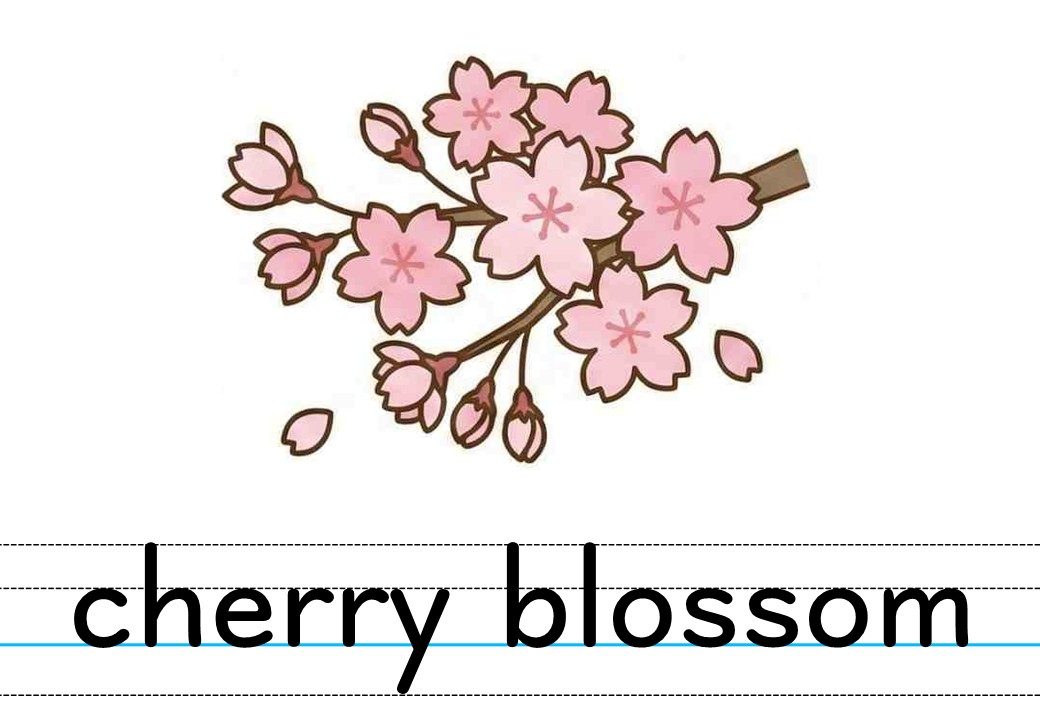
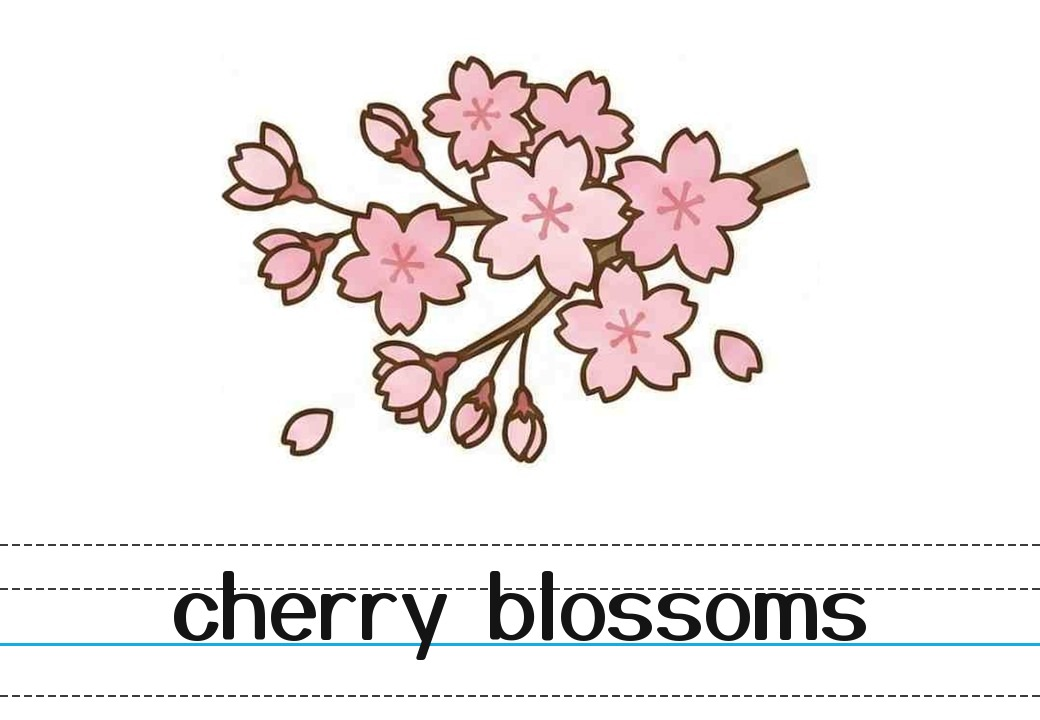
画像・単語の整合性監査にもとづく修正(参照切れ2件+誤ラベル12枚)
コード修正:
- 6年「時刻」の at 5:00 / at 10:30 のエイリアスを実ファイル名に一致させ、
  画像が表示されない問題を修正(at_5_00 → at 5_00 等)
- 学ぶ/練習/ゲーム タブの存在しない画像参照(mode_study/practice/game.jpg)を
  除去(画像を追加したら戻せるようコメントを記載)
- images/desktop.ini(Windows管理ファイル)を削除

画像修正(ラベル文字の誤り等):
- seater.jpg → sweater.jpg にリネームし、画像内の誤記「seater」を修正
- watch_item.jpg: ラベル「watch_item」→「watch」
- playing the recorder.jpg: 「play the recorder」→「playing the recorder」
- playing video games.jpg: 「play video game」→「playing video games」
- one hundred and one.jpg: 「one hundred one」→「one hundred and one」
- cherry blossoms.jpg: 単数形「cherry blossom」→「cherry blossoms」
- the_UK.jpg / the_US.jpg: 「the_UK」「the_US」→「the U.K.」「the U.S.」
- wash.jpg / washed.jpg: 単語と無関係な絵(毛布にくるまる子ども)だったため、
  皿洗いのイラストにラベル wash / washed を付けて差し替え
- nine.jpg / nineteen.jpg: q に見える 9 の字形を判読しやすい字形に描き直し

Claude-Session: https://claude.ai/code/session_01XdiW5Z3ppxUcUrCRWzTXFE

Changed region(s): [[0.0, 0.7333, 1.0, 0.9778]]

diff --git a/index.html b/index.html
@@ -488,9 +488,10 @@
     <div id="home-view" class="hidden fade-in">
         <h2 id="grade-title" style="text-align:center; color:var(--primary); margin-top:0; font-family:'Fredoka One', cursive; margin-bottom:20px;">Grade</h2>
         <div class="mode-tabs">
-            <button id="t-study" class="tab-btn active" onclick="switchMode('study')"><img src="images/mode_study.jpg" onerror="this.style.display='none'"><div>Study<small>学ぶ</small></div></button>
-            <button id="t-practice" class="tab-btn" onclick="switchMode('quiz')"><img src="images/mode_practice.jpg" onerror="this.style.display='none'"><div>Practice<small>練習</small></div></button>
-            <button id="t-game" class="tab-btn" onclick="switchMode('game')"><img src="images/mode_game.jpg" onerror="this.style.display='none'"><div>Game<small>ゲーム</small></div></button>
+            <!-- タブ用アイコン画像(mode_study/practice/game.jpg)は現在リポジトリに存在しないため参照を外しています。画像を追加したら <img src="images/mode_study.jpg"> 等を戻してください -->
+            <button id="t-study" class="tab-btn active" onclick="switchMode('study')"><div>Study<small>学ぶ</small></div></button>
+            <button id="t-practice" class="tab-btn" onclick="switchMode('quiz')"><div>Practice<small>練習</small></div></button>
+            <button id="t-game" class="tab-btn" onclick="switchMode('game')"><div>Game<small>ゲーム</small></div></button>
         </div>
         <p id="mode-desc" style="text-align:center; color:#888; font-weight:bold; margin:0 0 15px;">カテゴリーを選んで学ぼう！</p>
         <div id="game-random-area" class="hidden">
@@ -742,7 +743,7 @@
     const grade3Data = { "g3_u01": { "label_jp": "あいさつ", "label_en": "Greetings", "icon": "g3_unit1.jpg", "group": "grp-1", "items": ["Hello", "Hi", "Good morning", "Good afternoon", "Good evening", "Goodbye", "See you", "I am", "name"] }, "g3_u02": { "label_jp": "気持ち", "label_en": "Feelings", "icon": "g3_unit2.jpg", "group": "grp-2", "items": ["happy", "good", "fine", "hungry", "sleepy", "tired", "sad", "thank you", "great"] }, "g3_u03": { "label_jp": "数・ジャンケン", "label_en": "Numbers", "icon": "g3_unit3.jpg", "group": "grp-3", "items": ["one", "two", "three", "four", "five", "six", "seven", "eight", "nine", "ten", "eleven", "twelve", "thirteen", "fourteen", "fifteen", "sixteen", "seventeen", "eighteen", "nineteen", "twenty", "rock", "scissors=scissors_janken", "paper"] }, "g3_u04": { "label_jp": "色", "label_en": "Colors", "icon": "g3_unit4.jpg", "group": "grp-4", "items": ["blue", "red", "green", "yellow", "pink", "orange=orange_color", "purple", "white", "black", "brown", "gold", "silver", "rainbow"] }, "g3_u05": { "label_jp": "食べ物・スポーツ", "label_en": "Food & Sports", "icon": "g3_unit5.jpg", "group": "grp-5", "items": ["soccer", "baseball", "basketball", "dodgeball", "swimming", "tennis", "apple", "orange=orange_fruit", "banana", "grape", "melon", "peach", "strawberry", "kiwi fruit", "ice cream", "steak", "sushi", "curry and rice", "hamburger", "pizza", "cake", "donut", "water", "sandwich", "chocolate"] }, "g3_u06": { "label_jp": "アルファベット(大文字)", "label_en": "Alphabet (ABC)", "icon": "g3_unit6.jpg", "group": "grp-1", "items": ["A=a_capital", "B=b_capital", "C=c_capital", "D=d_capital", "E=e_capital", "F=f_capital", "G=g_capital", "H=h_capital", "I=i_capital", "J=j_capital", "K=k_capital", "L=l_capital", "M=m_capital", "N=n_capital", "O=o_capital", "P=p_capital", "Q=q_capital", "R=r_capital", "S=s_capital", "T=t_capital", "U=u_capital", "V=v_capital", "W=w_capital", "X=x_capital", "Y=y_capital", "Z=z_capital"] }, "g3_u07": { "label_jp": "形・プレゼント", "label_en": "Shapes & Presents", "icon": "g3_unit7.jpg", "group": "grp-2", "items": ["circle", "triangle", "square", "rectangle", "star", "heart", "diamond", "card", "present"] }, "g3_u08": { "label_jp": "動物・体", "label_en": "Animals & Body", "icon": "g3_unit8.jpg", "group": "grp-3", "items": ["dog", "cat", "elephant", "lion", "rabbit", "panda", "monkey", "koala", "snake", "cow", "pig", "tiger", "bear", "mouse", "bird", "horse", "big", "small", "long", "short", "ear", "eye", "nose", "mouth", "tail", "leg", "body", "gorilla", "fox"] }, "g3_u09": { "label_jp": "物語", "label_en": "Story Characters", "icon": "g3_unit9.jpg", "group": "grp-4", "items": ["Momotaro", "dog", "monkey", "pheasant", "demon", "princess", "prince"] } };
     const grade4Data = { "g4_u01": { "label_jp": "世界の国・あいさつ", "label_en": "Countries & Greetings", "icon": "g4_unit1.jpg", "group": "grp-1", "items": ["Japan", "America", "Australia", "Brazil", "China", "Korea", "Russia", "India", "France", "Hello", "Konnichiwa", "Nihao", "Bonjour", "Namaste", "Sawasdee"] }, "g4_u02": { "label_jp": "天気・遊び", "label_en": "Weather & Play", "icon": "g4_unit2.jpg", "group": "grp-2", "items": ["sunny", "cloudy", "rainy", "snowy", "play tag", "play cards", "play dodgeball", "jump rope", "windy"] }, "g4_u03": { "label_jp": "曜日", "label_en": "Days of the Week", "icon": "g4_unit3.jpg", "group": "grp-3", "items": ["Sunday", "Monday", "Tuesday", "Wednesday", "Thursday", "Friday", "Saturday", "school", "fun", "study", "one", "two", "three", "four", "five", "six", "seven", "eight", "nine", "ten", "eleven", "twelve"] }, "g4_u04": { "label_jp": "時間", "label_en": "Time", "icon": "g4_unit4.jpg", "group": "grp-4", "items": ["one o'clock", "two o'clock", "three o'clock", "four o'clock", "five o'clock", "six o'clock", "seven o'clock", "eight o'clock", "nine o'clock", "ten o'clock", "eleven o'clock", "twelve o'clock", "AM", "PM", "breakfast time", "lunch time", "snack time", "dinner time", "bath time", "bed time", "wake up time"] }, "g4_u05": { "label_jp": "文房具", "label_en": "Stationery", "icon": "g4_unit5.jpg", "group": "grp-5", "items": ["pen", "pencil", "red pencil", "eraser", "ruler", "pencil case", "magnet", "marker", "notebook", "staples", "glue", "scissors", "crayon", "tape"] }, "g4_u06": { "label_jp": "アルファベット(小文字)", "label_en": "Alphabet (abc)", "icon": "g4_unit6.jpg", "group": "grp-1", "items": ["a=a_small", "b=b_small", "c=c_small", "d=d_small", "e=e_small", "f=f_small", "g=g_small", "h=h_small", "i=i_small", "j=j_small", "k=k_small", "l=l_small", "m=m_small", "n=n_small", "o=o_small", "p=p_small", "q=q_small", "r=r_small", "s=s_small", "t=t_small", "u=u_small", "v=v_small", "w=w_small", "x=x_small", "y=y_small", "z=z_small"] }, "g4_u07": { "label_jp": "ほしいもの", "label_en": "Vegetables & Food", "icon": "g4_unit7.jpg", "group": "grp-2", "items": ["potato", "tomato", "onion", "carrot", "green pepper", "corn", "mushroom", "ham", "sausage", "cheese", "tuna", "bacon", "pineapple", "cherry"] }, "g4_u08": { "label_jp": "学校・道案内", "label_en": "School & Directions", "icon": "g4_unit8.jpg", "group": "grp-3", "items": ["classroom", "library", "music room", "gym", "arts and crafts room", "science room", "computer room", "teachers' office", "school nurse's office", "school principal's office", "restroom", "entrance", "Go straight=go straight", "Turn right=turn right", "Turn left=turn left", "Stop=stop", "playground"] }, "g4_u09": { "label_jp": "一日の生活", "label_en": "My Day", "icon": "g4_unit9.jpg", "group": "grp-4", "items": ["get up", "wash my face", "eat breakfast", "go to school", "study", "eat lunch", "go home", "eat dinner", "take a bath", "go to bed", "every day"] } };
     const grade5Data = { c01: { label_jp: "今の気持ち", label_en: "Feelings", icon: "cat_feelings.jpg", group: "grp-1", items: ["fine", "happy", "good", "great", "sleepy", "tired", "hungry", "thirsty", "sad", "angry", "excited", "nervous", "busy", "scared"] }, c18: { label_jp: "自分の性格", label_en: "Personality", icon: "cat_personality.jpg", group: "grp-1", items: ["active", "brave", "cool=cool_nice", "famous", "friendly", "kind", "strong", "cheerful", "funny", "smart", "shy"] }, c14: { label_jp: "好きな教科", label_en: "Subject", icon: "cat_subject.jpg", group: "grp-4", items: ["Japanese", "English", "math", "science", "social studies", "music", "P.E.=PE", "calligraphy", "arts and crafts", "home economics", "moral education", "the period for integrated study=integrated_study"] }, c15: { label_jp: "得意なこと・動作", label_en: "Abilities / Actions", icon: "cat_actions.jpg", group: "grp-5", items: ["sing well", "cook", "swim", "run fast", "dance", "jump rope", "do kendama", "play soccer", "play basketball", "play baseball", "play volleyball", "play table tennis", "play dodgeball", "play badminton", "play the piano", "play the recorder", "play the guitar", "draw pictures", "ride a unicycle"] }, c17: { label_jp: "将来の仕事", label_en: "Job", icon: "cat_job.jpg", group: "grp-4", items: ["actor", "comedian", "singer", "artist", "athlete", "baseball player", "tennis player", "figure skater", "chef", "baker", "farmer", "florist", "teacher", "journalist", "designer", "robot creator", "vet", "dentist", "nurse", "doctor", "astronaut", "firefighter", "zookeeper", "YouTuber", "game creator"] }, c13: { label_jp: "一週間の曜日", label_en: "Days", icon: "cat_days.jpg", group: "grp-1", items: ["Sunday", "Monday", "Tuesday", "Wednesday", "Thursday", "Friday", "Saturday"] }, c11: { label_jp: "一年間の月", label_en: "Months", icon: "cat_months.jpg", group: "grp-1", items: ["January", "February", "March", "April", "May", "June", "July", "August", "September", "October", "November", "December"] }, c25: { label_jp: "数字（0〜100）", label_en: "Number", icon: "cat_numbers.jpg", group: "grp-5", items: ["zero", "one", "two", "three", "four", "five", "six", "seven", "eight", "nine", "ten", "eleven", "twelve", "thirteen", "fourteen", "fifteen", "sixteen", "seventeen", "eighteen", "nineteen", "twenty", "thirty", "forty", "fifty", "sixty", "seventy", "eighty", "ninety", "one hundred"] }, c12: { label_jp: "持ち物・学用品", label_en: "Personal Items", icon: "cat_items.jpg", group: "grp-4", items: ["pen", "pencil", "eraser", "pencil case", "computer", "tablet", "glue", "ruler", "scissors", "notebook", "card", "cup", "clock", "watch=watch_item", "ball", "racket", "bed", "desk", "chair", "cap", "hat", "shoes", "pants", "glasses", "bag", "T-shirt", "sweater", "smartphone", "calendar", "balloon", "P.E.=PE"] }, c03: { label_jp: "いろいろな色と形", label_en: "Color, Shape", icon: "cat_color.jpg", group: "grp-5", items: ["red", "blue", "green", "yellow", "pink", "white", "orange=orange_color", "purple", "black", "brown", "gray", "circle", "triangle", "cross", "heart", "square", "rectangle", "star", "diamond"] }, c04: { label_jp: "スポーツの種類", label_en: "Sport", icon: "cat_sport.jpg", group: "grp-5", items: ["baseball", "basketball", "dodgeball", "volleyball", "soccer", "swimming", "table tennis", "tennis", "badminton", "dancing", "skiing"] }, c05: { label_jp: "動物の名前", label_en: "Animal", icon: "cat_animal.jpg", group: "grp-2", items: ["cat", "dog", "rabbit", "hamster", "tiger", "bear", "horse"] }, c06: { label_jp: "野菜と果物", label_en: "Fruit, Vegetable", icon: "cat_fruit.jpg", group: "grp-3", items: ["apple", "banana", "strawberry", "grapes", "peach", "melon", "pineapple", "persimmon", "watermelon", "Japanese pear", "potato", "carrot", "onion", "cabbage", "tomato", "mushroom", "green pepper", "cucumber", "corn", "spinach", "eggplant", "orange=orange_fruit"] }, c08: { label_jp: "いろいろな料理", label_en: "Food", icon: "cat_food.jpg", group: "grp-3", items: ["pizza", "steak", "hamburger", "spaghetti", "sandwich", "French fries", "omelet", "rice", "rice ball", "curry and rice", "rice cake", "fried rice", "fried chicken", "grilled fish", "miso soup", "noodles", "soup", "salad", "bread", "sausage", "ramen", "hot pot"] }, c07: { label_jp: "料理の材料", label_en: "Ingredients", icon: "cat_ingredients.jpg", group: "grp-3", items: ["beef", "pork", "chicken", "egg", "octopus", "crab", "squid", "seaweed", "cheese", "bacon", "shrimp", "salmon"] }, c09: { label_jp: "飲み物とデザート", label_en: "Drink, Dessert", icon: "cat_drink.jpg", group: "grp-3", items: ["milk", "orange juice", "soda", "tea", "green tea", "coffee", "water", "cake", "ice cream", "pudding", "yogurt"] }, c10: { label_jp: "食べ物の味", label_en: "Taste, Texture", icon: "cat_taste.jpg", group: "grp-3", items: ["delicious", "sweet", "bitter", "sour", "salty", "spicy", "soft", "hard"] }, c19: { label_jp: "町の施設", label_en: "Town", icon: "cat_town.jpg", group: "grp-4", items: ["house", "school", "bookstore", "station", "library", "post office", "fire station", "police station", "hospital", "city hall", "restaurant", "flower shop", "supermarket", "bus stop", "park", "stadium", "gym", "zoo", "aquarium", "museum", "temple", "shrine", "castle", "garden", "convenience store", "amusement park"] }, c21: { label_jp: "道案内と場所", label_en: "Directions", icon: "cat_directions.jpg", group: "grp-5", items: ["on", "in", "under", "by", "go straight", "turn right", "turn left", "stop", "corner", "block"] }, c02: { label_jp: "今日の天気", label_en: "Weather", icon: "cat_weather.jpg", group: "grp-2", items: ["sunny", "rainy", "cloudy", "snowy", "hot", "cold", "warm", "cool=cool_weather"] }, c20: { label_jp: "身近な自然", label_en: "Nature", icon: "cat_nature.jpg", group: "grp-2", items: ["sea", "beach", "river", "mountain", "lake", "pond", "forest", "island", "waterfall", "tree", "flower", "cherry blossoms", "sun", "sunrise", "sunset", "rainbow", "stars", "hot spring", "autumn leaves"] }, c16: { label_jp: "家族や友達", label_en: "People", icon: "cat_people.jpg", group: "grp-4", items: ["grandmother", "grandfather", "mother", "father", "brother", "sister", "me", "friend", "neighbor"] }, c23: { label_jp: "物の様子", label_en: "State", icon: "cat_state.jpg", group: "grp-1", items: ["big", "small", "old", "new", "long", "short", "cool=cool_nice", "beautiful", "cute", "popular", "fresh"] }, c24: { label_jp: "感じたこと", label_en: "Impressions", icon: "cat_impressions.jpg", group: "grp-1", items: ["nice", "good", "great", "wonderful", "fun", "exciting", "interesting"] } };
-    const grade6Data = { g01: { label_jp: "世界の国々", label_en: "Country", icon: "cat_country.jpg", group: "grp-5", items: ["Australia", "Azerbaijan", "Brazil", "Canada", "Chile", "China", "Egypt", "Finland", "France", "Germany", "India", "Italy", "Japan", "Kenya", "Korea", "New Zealand", "Norway", "Peru", "Russia", "Saudi Arabia", "South Africa", "Thailand", "the Maldives", "the Philippines", "the U.K.=the_UK", "the U.S.=the_US"] }, g13: { label_jp: "中学校の部活動", label_en: "Club Activity", icon: "cat_club.jpg", group: "grp-4", items: ["baseball team", "basketball team", "volleyball team", "soccer team", "tennis team", "track team", "art club", "computer club", "drama club", "dance club", "kendo club", "newspaper club", "science club", "brass band", "chorus", "table tennis team"] }, g14: { label_jp: "中学校の教科", label_en: "Subject", icon: "cat_subject.jpg", group: "grp-4", items: ["Japanese", "English", "math", "science", "social studies", "music", "P.E.=PE", "calligraphy", "arts and crafts", "home economics", "moral education"] }, g15: { label_jp: "あこがれの職業", label_en: "Job", icon: "cat_job.jpg", group: "grp-4", items: ["actor", "voice actor", "artist", "manga artist", "baseball player", "soccer player", "teacher", "nursery teacher", "journalist", "chef", "farmer", "florist", "hair stylist", "designer", "robot creator", "pharmacist", "vet", "dentist", "nurse", "doctor", "astronaut", "firefighter", "zookeeper"] }, g16: { label_jp: "学校の行事", label_en: "School Events", icon: "cat_school_events.jpg", group: "grp-1", items: ["entrance ceremony", "art festival", "drama festival", "music festival", "sports day", "volunteer day", "camping trip", "field trip", "school trip", "swimming meet", "graduation ceremony"] }, g05: { label_jp: "季節のイベント", label_en: "Seasonal Events", icon: "cat_events.jpg", group: "grp-1", items: ["hanami", "the Doll Festival", "Children's Day", "the Star Festival", "a summer festival", "a fireworks festival", "tsukimi", "momijigari", "shichi-go-san", "oshogatsu", "setsubun", "a snow festival", "Japanese food", "Japanese sweets", "matcha", "hot spring"] }, g08: { label_jp: "毎日の生活習慣", label_en: "Daily Routine", icon: "cat_routine.jpg", group: "grp-3", items: ["get up", "eat breakfast", "brush my teeth", "take out the garbage", "leave my house", "go to school", "eat lunch", "go home", "clean my room", "do my homework", "play with my friends", "watch TV", "walk the dog", "cook dinner", "set the table", "eat dinner", "clear the table", "wash the dishes", "clean the bath", "take a bath", "go to bed"] }, g07: { label_jp: "時間の表現と頻度", label_en: "Time, Frequency", icon: "cat_frequency.jpg", group: "grp-3", items: ["morning", "afternoon", "evening", "night", "Sunday", "Monday", "Tuesday", "Wednesday", "Thursday", "Friday", "Saturday", "at 5:00=at_5_00", "at 10:30=at_10_30", "always", "usually", "sometimes", "never"] }, g06: { label_jp: "過去の動作", label_en: "Actions (Past)", icon: "cat_past.jpg", group: "grp-5", items: ["see", "saw", "eat", "ate", "go", "went", "enjoy", "enjoyed", "visit", "visited", "make", "made", "talk", "talked", "sing", "sang", "cook", "cooked", "watch=watch_action", "watched", "play", "played", "practice", "practiced", "try", "tried", "wash", "washed", "walk", "walked"] }, g06b: { label_jp: "いろいろな動作", label_en: "Actions (Verbs)", icon: "cat_actions_g6.jpg", group: "grp-5", items: ["like", "love", "have", "want", "buy", "clean", "climb", "dance", "draw", "drink", "fly", "help", "jump", "listen", "read", "run", "stand up", "sit down", "speak", "study", "swim", "walk", "write"] }, g02: { label_jp: "得意なこと", label_en: "Things you are good at", icon: "cat_skills.jpg", group: "grp-1", items: ["singing", "cooking", "swimming", "running", "dancing", "fishing", "sports", "kendama", "sewing", "jumping rope", "riding a unicycle", "drawing pictures", "making sweets", "playing the piano", "playing the recorder", "playing video games"] }, g11: { label_jp: "いろいろな生き物", label_en: "Living Things", icon: "cat_living.jpg", group: "grp-2", items: ["bear", "cat", "chimpanzee", "cow", "dog", "elephant", "giraffe", "gorilla", "hamster", "hippo", "horse", "kangaroo", "koala", "lion", "monkey", "mouse", "orangutan", "panda", "pig", "polar bear", "rabbit", "red panda", "tiger", "zebra", "bird", "eagle", "owl", "penguin", "caterpillar", "grasshopper", "frog", "dolphin", "dugong", "fish", "jellyfish", "sea turtle", "seal", "shark", "whale"] }, g10: { label_jp: "世界の自然環境", label_en: "Nature", icon: "cat_nature_g6.jpg", group: "grp-2", items: ["sea", "beach", "mountain", "forest", "rain forest", "desert", "savanna", "lake", "pond", "river", "waterfall", "hot spring", "sky", "sun", "stars", "tree", "nuts", "leaves", "grass", "flower", "fruits", "bugs", "seaweed", "water"] }, g12: { label_jp: "体と特徴", label_en: "Body", icon: "cat_body.jpg", group: "grp-4", items: ["head", "neck", "shoulder", "hand", "leg", "eye", "nose", "mouth", "ear", "tail", "fur", "wing", "feather", "shell", "horn"] }, g09: { label_jp: "町にある建物", label_en: "Town", icon: "cat_town_g6.jpg", group: "grp-4", items: ["house", "school", "bookstore", "station", "library", "hospital", "fire station", "police station", "supermarket", "flower shop", "shrine", "temple", "restaurant", "park", "stadium", "gym", "zoo", "aquarium", "museum", "castle", "junior high school", "swimming pool", "department store", "amusement park"] }, g03: { label_jp: "四季の季節", label_en: "Season", icon: "cat_season.jpg", group: "grp-2", items: ["spring", "summer", "fall", "winter"] }, g04: { label_jp: "月（1月〜12月）", label_en: "Month, Date", icon: "cat_months.jpg", group: "grp-1", items: ["January", "February", "March", "April", "May", "June", "July", "August", "September", "October", "November", "December"] }, g19: { label_jp: "大きな数字", label_en: "Number", icon: "cat_numbers.jpg", group: "grp-5", items: ["zero", "one", "two", "twenty", "twenty-one", "thirty", "forty", "fifty", "sixty", "seventy", "eighty", "ninety", "one hundred", "one hundred and one", "two hundred"] }, g17: { label_jp: "様子を表す言葉", label_en: "State", icon: "cat_state.jpg", group: "grp-1", items: ["big", "small", "old", "new", "long", "short", "cool=cool_nice", "beautiful", "cute", "popular", "fresh"] }, g18: { label_jp: "思い出の感想", label_en: "Impressions", icon: "cat_impressions.jpg", group: "grp-1", items: ["nice", "good", "great", "wonderful", "fun", "exciting", "interesting"] } };
+    const grade6Data = { g01: { label_jp: "世界の国々", label_en: "Country", icon: "cat_country.jpg", group: "grp-5", items: ["Australia", "Azerbaijan", "Brazil", "Canada", "Chile", "China", "Egypt", "Finland", "France", "Germany", "India", "Italy", "Japan", "Kenya", "Korea", "New Zealand", "Norway", "Peru", "Russia", "Saudi Arabia", "South Africa", "Thailand", "the Maldives", "the Philippines", "the U.K.=the_UK", "the U.S.=the_US"] }, g13: { label_jp: "中学校の部活動", label_en: "Club Activity", icon: "cat_club.jpg", group: "grp-4", items: ["baseball team", "basketball team", "volleyball team", "soccer team", "tennis team", "track team", "art club", "computer club", "drama club", "dance club", "kendo club", "newspaper club", "science club", "brass band", "chorus", "table tennis team"] }, g14: { label_jp: "中学校の教科", label_en: "Subject", icon: "cat_subject.jpg", group: "grp-4", items: ["Japanese", "English", "math", "science", "social studies", "music", "P.E.=PE", "calligraphy", "arts and crafts", "home economics", "moral education"] }, g15: { label_jp: "あこがれの職業", label_en: "Job", icon: "cat_job.jpg", group: "grp-4", items: ["actor", "voice actor", "artist", "manga artist", "baseball player", "soccer player", "teacher", "nursery teacher", "journalist", "chef", "farmer", "florist", "hair stylist", "designer", "robot creator", "pharmacist", "vet", "dentist", "nurse", "doctor", "astronaut", "firefighter", "zookeeper"] }, g16: { label_jp: "学校の行事", label_en: "School Events", icon: "cat_school_events.jpg", group: "grp-1", items: ["entrance ceremony", "art festival", "drama festival", "music festival", "sports day", "volunteer day", "camping trip", "field trip", "school trip", "swimming meet", "graduation ceremony"] }, g05: { label_jp: "季節のイベント", label_en: "Seasonal Events", icon: "cat_events.jpg", group: "grp-1", items: ["hanami", "the Doll Festival", "Children's Day", "the Star Festival", "a summer festival", "a fireworks festival", "tsukimi", "momijigari", "shichi-go-san", "oshogatsu", "setsubun", "a snow festival", "Japanese food", "Japanese sweets", "matcha", "hot spring"] }, g08: { label_jp: "毎日の生活習慣", label_en: "Daily Routine", icon: "cat_routine.jpg", group: "grp-3", items: ["get up", "eat breakfast", "brush my teeth", "take out the garbage", "leave my house", "go to school", "eat lunch", "go home", "clean my room", "do my homework", "play with my friends", "watch TV", "walk the dog", "cook dinner", "set the table", "eat dinner", "clear the table", "wash the dishes", "clean the bath", "take a bath", "go to bed"] }, g07: { label_jp: "時間の表現と頻度", label_en: "Time, Frequency", icon: "cat_frequency.jpg", group: "grp-3", items: ["morning", "afternoon", "evening", "night", "Sunday", "Monday", "Tuesday", "Wednesday", "Thursday", "Friday", "Saturday", "at 5:00=at 5_00", "at 10:30=at 10_30", "always", "usually", "sometimes", "never"] }, g06: { label_jp: "過去の動作", label_en: "Actions (Past)", icon: "cat_past.jpg", group: "grp-5", items: ["see", "saw", "eat", "ate", "go", "went", "enjoy", "enjoyed", "visit", "visited", "make", "made", "talk", "talked", "sing", "sang", "cook", "cooked", "watch=watch_action", "watched", "play", "played", "practice", "practiced", "try", "tried", "wash", "washed", "walk", "walked"] }, g06b: { label_jp: "いろいろな動作", label_en: "Actions (Verbs)", icon: "cat_actions_g6.jpg", group: "grp-5", items: ["like", "love", "have", "want", "buy", "clean", "climb", "dance", "draw", "drink", "fly", "help", "jump", "listen", "read", "run", "stand up", "sit down", "speak", "study", "swim", "walk", "write"] }, g02: { label_jp: "得意なこと", label_en: "Things you are good at", icon: "cat_skills.jpg", group: "grp-1", items: ["singing", "cooking", "swimming", "running", "dancing", "fishing", "sports", "kendama", "sewing", "jumping rope", "riding a unicycle", "drawing pictures", "making sweets", "playing the piano", "playing the recorder", "playing video games"] }, g11: { label_jp: "いろいろな生き物", label_en: "Living Things", icon: "cat_living.jpg", group: "grp-2", items: ["bear", "cat", "chimpanzee", "cow", "dog", "elephant", "giraffe", "gorilla", "hamster", "hippo", "horse", "kangaroo", "koala", "lion", "monkey", "mouse", "orangutan", "panda", "pig", "polar bear", "rabbit", "red panda", "tiger", "zebra", "bird", "eagle", "owl", "penguin", "caterpillar", "grasshopper", "frog", "dolphin", "dugong", "fish", "jellyfish", "sea turtle", "seal", "shark", "whale"] }, g10: { label_jp: "世界の自然環境", label_en: "Nature", icon: "cat_nature_g6.jpg", group: "grp-2", items: ["sea", "beach", "mountain", "forest", "rain forest", "desert", "savanna", "lake", "pond", "river", "waterfall", "hot spring", "sky", "sun", "stars", "tree", "nuts", "leaves", "grass", "flower", "fruits", "bugs", "seaweed", "water"] }, g12: { label_jp: "体と特徴", label_en: "Body", icon: "cat_body.jpg", group: "grp-4", items: ["head", "neck", "shoulder", "hand", "leg", "eye", "nose", "mouth", "ear", "tail", "fur", "wing", "feather", "shell", "horn"] }, g09: { label_jp: "町にある建物", label_en: "Town", icon: "cat_town_g6.jpg", group: "grp-4", items: ["house", "school", "bookstore", "station", "library", "hospital", "fire station", "police station", "supermarket", "flower shop", "shrine", "temple", "restaurant", "park", "stadium", "gym", "zoo", "aquarium", "museum", "castle", "junior high school", "swimming pool", "department store", "amusement park"] }, g03: { label_jp: "四季の季節", label_en: "Season", icon: "cat_season.jpg", group: "grp-2", items: ["spring", "summer", "fall", "winter"] }, g04: { label_jp: "月（1月〜12月）", label_en: "Month, Date", icon: "cat_months.jpg", group: "grp-1", items: ["January", "February", "March", "April", "May", "June", "July", "August", "September", "October", "November", "December"] }, g19: { label_jp: "大きな数字", label_en: "Number", icon: "cat_numbers.jpg", group: "grp-5", items: ["zero", "one", "two", "twenty", "twenty-one", "thirty", "forty", "fifty", "sixty", "seventy", "eighty", "ninety", "one hundred", "one hundred and one", "two hundred"] }, g17: { label_jp: "様子を表す言葉", label_en: "State", icon: "cat_state.jpg", group: "grp-1", items: ["big", "small", "old", "new", "long", "short", "cool=cool_nice", "beautiful", "cute", "popular", "fresh"] }, g18: { label_jp: "思い出の感想", label_en: "Impressions", icon: "cat_impressions.jpg", group: "grp-1", items: ["nice", "good", "great", "wonderful", "fun", "exciting", "interesting"] } };
 
     const allData = { grade3: grade3Data, grade4: grade4Data, grade5: grade5Data, grade6: grade6Data };
 
